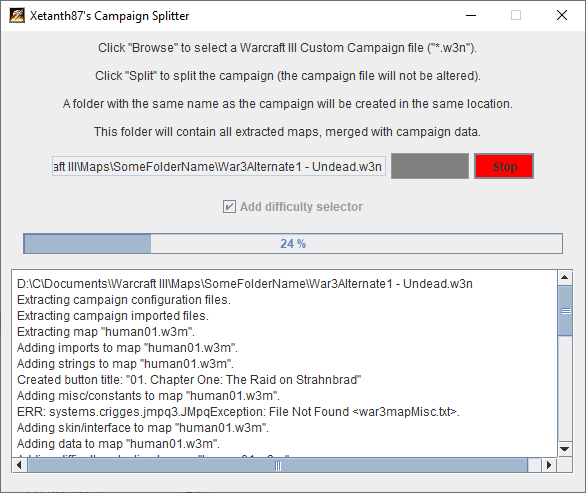
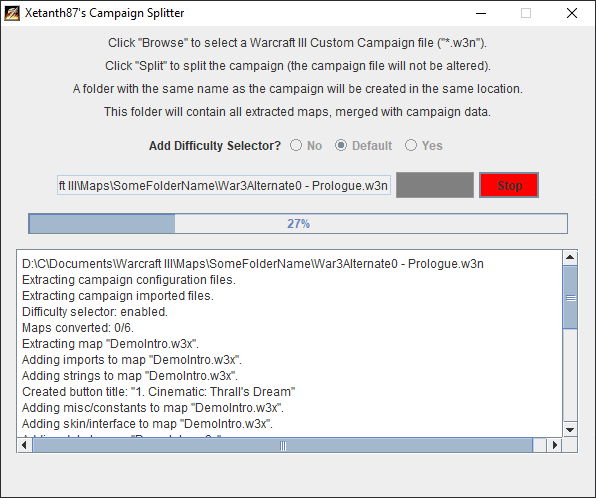
Added map counter, Default difficulty selector. Removed warnings shown as errors.

diff --git a/src/main/java/net/xetanth87/campaignsplitter/SplitterFrame.java b/src/main/java/net/xetanth87/campaignsplitter/SplitterFrame.java
@@ -11,6 +11,7 @@ import java.io.OutputStream;
 import java.io.PrintStream;
 import java.time.Duration;
 import java.time.Instant;
+import java.util.Enumeration;
 
 public class SplitterFrame extends JFrame {
 	public static final String AUTHOR = "Xetanth87";
@@ -18,39 +19,53 @@ public class SplitterFrame extends JFrame {
 	private JTextField filePathField = new JTextField(30);
 	private JButton browse = new JButton("Browse");
 	private JButton split = new JButton("Split");
-	//"Add difficulty selector",
-	//private JComboBox difficultySelectorOption = new JComboBox(new String[]{""});
 	private boolean running = false;
 	private Thread splitterThread = null;
 	private JProgressBar bar;
 	private JTextArea taskOutput;
 	private XT87Utils.TriOption difficultySelectorOption = XT87Utils.TriOption.DEFAULT;
+	private ButtonGroup difficultySelectorGroup;
 
 	public SplitterFrame() {
 		super(AUTHOR + "'s " + APP_TITLE);
 		setSize(600, 500);
 		setResizable(false);
 		setDefaultCloseOperation(WindowConstants.EXIT_ON_CLOSE);
-		JPanel panel = new JPanel();
 		setLayout(new FlowLayout());
-		add(new Label("Click \"" + browse.getText() + "\" to select a Warcraft III Custom Campaign file (\"*.w3n\")."));
-		add(new Label("Click \"" + split.getText() + "\" to split the campaign (the campaign file will not be altered)."));
-		add(new Label("A folder with the same name as the campaign will be created in the same location."));
-		add(new Label("This folder will contain all extracted maps, merged with campaign data."));
-
-		ButtonGroup group = new ButtonGroup();
+		JPanel panel = new JPanel(new GridLayout(0, 1));
+		panel.add(new Label("Click \"" + browse.getText() + "\" to select a Warcraft III Custom Campaign file (\"*.w3n\").", Label.CENTER));
+		panel.add(new Label("Click \"" + split.getText() + "\" to split the campaign (the campaign file will not be altered).", Label.CENTER));
+		panel.add(new Label("A folder with the same name as the campaign will be created in the same location.", Label.CENTER));
+		panel.add(new Label("This folder will contain all extracted maps, merged with campaign data.", Label.CENTER));
+		add(panel);
+		panel = new JPanel();
+		panel.add(new JLabel("Add Difficulty Selector?"));
+		difficultySelectorGroup = new ButtonGroup();
 		JRadioButton radioButton;
 		for (XT87Utils.TriOption option : XT87Utils.TriOption.values()) {
-			radioButton = new JRadioButton(option.toString().toLowerCase());
+			radioButton = new JRadioButton(XT87Utils.beautifyEnum(option));
+			radioButton.setFocusPainted(false);
 			radioButton.setActionCommand(option.toString());
-			radioButton.setSelected(true);
-			//radioButton.addActionListener(this);
+			if (option == difficultySelectorOption)
+				radioButton.setSelected(true);
+			String tooltipText = "";
+			switch (option) {
+				case NO:
+					tooltipText = "Don't add a Difficulty Selector at the start of each map.";
+					break;
+				case DEFAULT:
+					tooltipText = "Add a Difficulty Selector at the start of each map, only if the campaign has the \"Variable Difficulty\" setting. (Recommended)";
+					break;
+				case YES:
+					tooltipText = "Add a Difficulty Selector at the start of each map.";
+					break;
+			}
+			radioButton.setToolTipText(tooltipText);
+			radioButton.addActionListener(new DifficultySelectorOptionL(option));
 			panel.add(radioButton);
-			group.add(radioButton);
+			difficultySelectorGroup.add(radioButton);
 		}
 		add(panel);
-
-
 
 		browse.addActionListener(new BrowseL());
 		split.addActionListener(new SplitL());
@@ -85,22 +100,27 @@ public class SplitterFrame extends JFrame {
 		panel.add(new JScrollPane(taskOutput), BorderLayout.CENTER);
 		add(panel);
 
-		new ProgressMonitor(this,
-				"Running a Long Task",
-				"", 0, 33);
-
-		//add(container);
-
 		try {
 			UIManager.setLookAndFeel(UIManager.getSystemLookAndFeelClassName());
 		} catch (Exception ex) {
 			ex.printStackTrace();
 		}
-		//URL iconURL = getClass().getResource("image/Icon.png");
-		//ImageIcon icon = new ImageIcon(iconURL);
+
 		ImageIcon icon = new ImageIcon(getClass().getResource("Icon.png"));
 		setIconImage(icon.getImage());
 		setVisible(true);
+	}
+
+	class DifficultySelectorOptionL implements ActionListener {
+		private XT87Utils.TriOption option;
+
+		public DifficultySelectorOptionL(XT87Utils.TriOption option) {
+			this.option = option;
+		}
+
+		public void actionPerformed(ActionEvent e) {
+			difficultySelectorOption = option;
+		}
 	}
 
 	class BrowseL implements ActionListener {
@@ -130,7 +150,10 @@ public class SplitterFrame extends JFrame {
 		this.running = running;
 		browse.setEnabled(!running);
 		filePathField.setEditable(!running);
-		//difficultySelectorOption.setEnabled(!running);
+		Enumeration<AbstractButton> e = difficultySelectorGroup.getElements();
+		while (e.hasMoreElements()) {
+			e.nextElement().setEnabled(!running);
+		}
 		if (running) {
 			browse.setBackground(Color.GRAY);
 			split.setText("Stop");
@@ -208,11 +231,7 @@ public class SplitterFrame extends JFrame {
 		public void run() {
 			File file = new File(filePathField.getText());
 			try {
-				CampaignSplitter cs = new FrameCampaignSplitter(file, XT87Utils.TriOption.DEFAULT
-//						difficultySelectorOption.isSelected()
-//								? XT87Utils.TriOption.DEFAULT
-//								: XT87Utils.TriOption.NO
-				);
+				CampaignSplitter cs = new FrameCampaignSplitter(file, difficultySelectorOption);
 				cs.splitCampaign();
 				String timeSpan = formatDuration(Duration.between(startTime, Instant.now()));
 				JOptionPane.showMessageDialog(null, "Campaign \"" + file.getName() + "\" has been split successfully! (" + timeSpan + ")", APP_TITLE, JOptionPane.INFORMATION_MESSAGE);

diff --git a/src/main/java/net/xetanth87/campaignsplitter/MapInjector.java b/src/main/java/net/xetanth87/campaignsplitter/MapInjector.java
@@ -273,6 +273,8 @@ public class MapInjector {
 		} finally {
 		}
 		try {
+			if (!mapEditor.hasFile(MiscTXT.GAME_PATH.getPath()))
+				throw new IOException();
 			mapEditor.extractFile(MiscTXT.GAME_PATH.getPath(), tempFile);
 			if (txt == null) {
 				txt = new MiscTXT();
@@ -297,10 +299,13 @@ public class MapInjector {
 			offsetCampaignStrings(new File(cs.getTempPath(SkinTXT.CAMPAIGN_PATH.getName())), campaignKeyOffset);
 			txt.read(tempFile);
 		} catch (Exception e) {
-			System.err.println(e.getMessage());
+			if (!(e instanceof IOException))
+				System.err.println(e.getMessage());
 			return;
 		}
 		try {
+			if (!mapEditor.hasFile(SkinTXT.GAME_PATH.getPath()))
+				throw new IOException();
 			mapEditor.extractFile(SkinTXT.GAME_PATH.getPath(), tempFile);
 			if (txt == null) {
 				txt = new SkinTXT();
@@ -377,9 +382,9 @@ public class MapInjector {
 					break;
 				}
 
-			System.out.println("Adding difficulty selection to map \"" + mapFile.getName() + "\".");
+			System.out.println("Adding Difficulty Slector to map \"" + mapFile.getName() + "\".");
 			DifficultySelector.addDifficultySelection(this, offsets.difficultyStringOffset, playerId);
-			System.out.println("Finished adding difficulty selection to map \"" + mapFile.getName() + "\".");
+			System.out.println("Finished adding Difficulty Selector to map \"" + mapFile.getName() + "\".");
 			cs.IncrementValueProgressBar(1);
 		}
 

diff --git a/src/main/java/net/xetanth87/campaignsplitter/CampaignSplitter.java b/src/main/java/net/xetanth87/campaignsplitter/CampaignSplitter.java
@@ -165,6 +165,7 @@ public class CampaignSplitter {
 		List<Thread> mapThreads = new ArrayList<>();
 		boolean withDifficultySelector = difficultySelectorOption.equals(XT87Utils.TriOption.YES) ||
 				(difficultySelectorOption.equals(XT87Utils.TriOption.DEFAULT) && campaignData.getFlag(W3F.Flags.Flag.VAR_DIFFICULTY));
+		System.out.println("Difficulty selector: " + (withDifficultySelector ? "enabled" : "disabled") + ".");
 		for (int i = 0; i < buttonCount; i++) {
 			System.out.println(MessageFormat.format(MAP_COUNT_FORMAT, i, buttonCount));
 			W3F.MapEntry mapEntry = campaignData.getMaps().get(i);

diff --git a/src/main/java/net/xetanth87/campaignsplitter/XT87Utils.java b/src/main/java/net/xetanth87/campaignsplitter/XT87Utils.java
@@ -3,6 +3,7 @@ package net.xetanth87.campaignsplitter;
 import java.io.File;
 import java.io.FileWriter;
 import java.io.IOException;
+import java.util.Locale;
 import java.util.Scanner;
 import java.util.Stack;
 
@@ -16,6 +17,11 @@ public class XT87Utils {
 		NO,
 		DEFAULT,
 		YES
+	}
+
+	public static String beautifyEnum(Enum e) {
+		String s = e.toString().replace("_", " ");
+		return s.substring(0, 1).toUpperCase() + s.substring(1).toLowerCase();
 	}
 
 	public static void createNewFile(File file) throws IOException {
